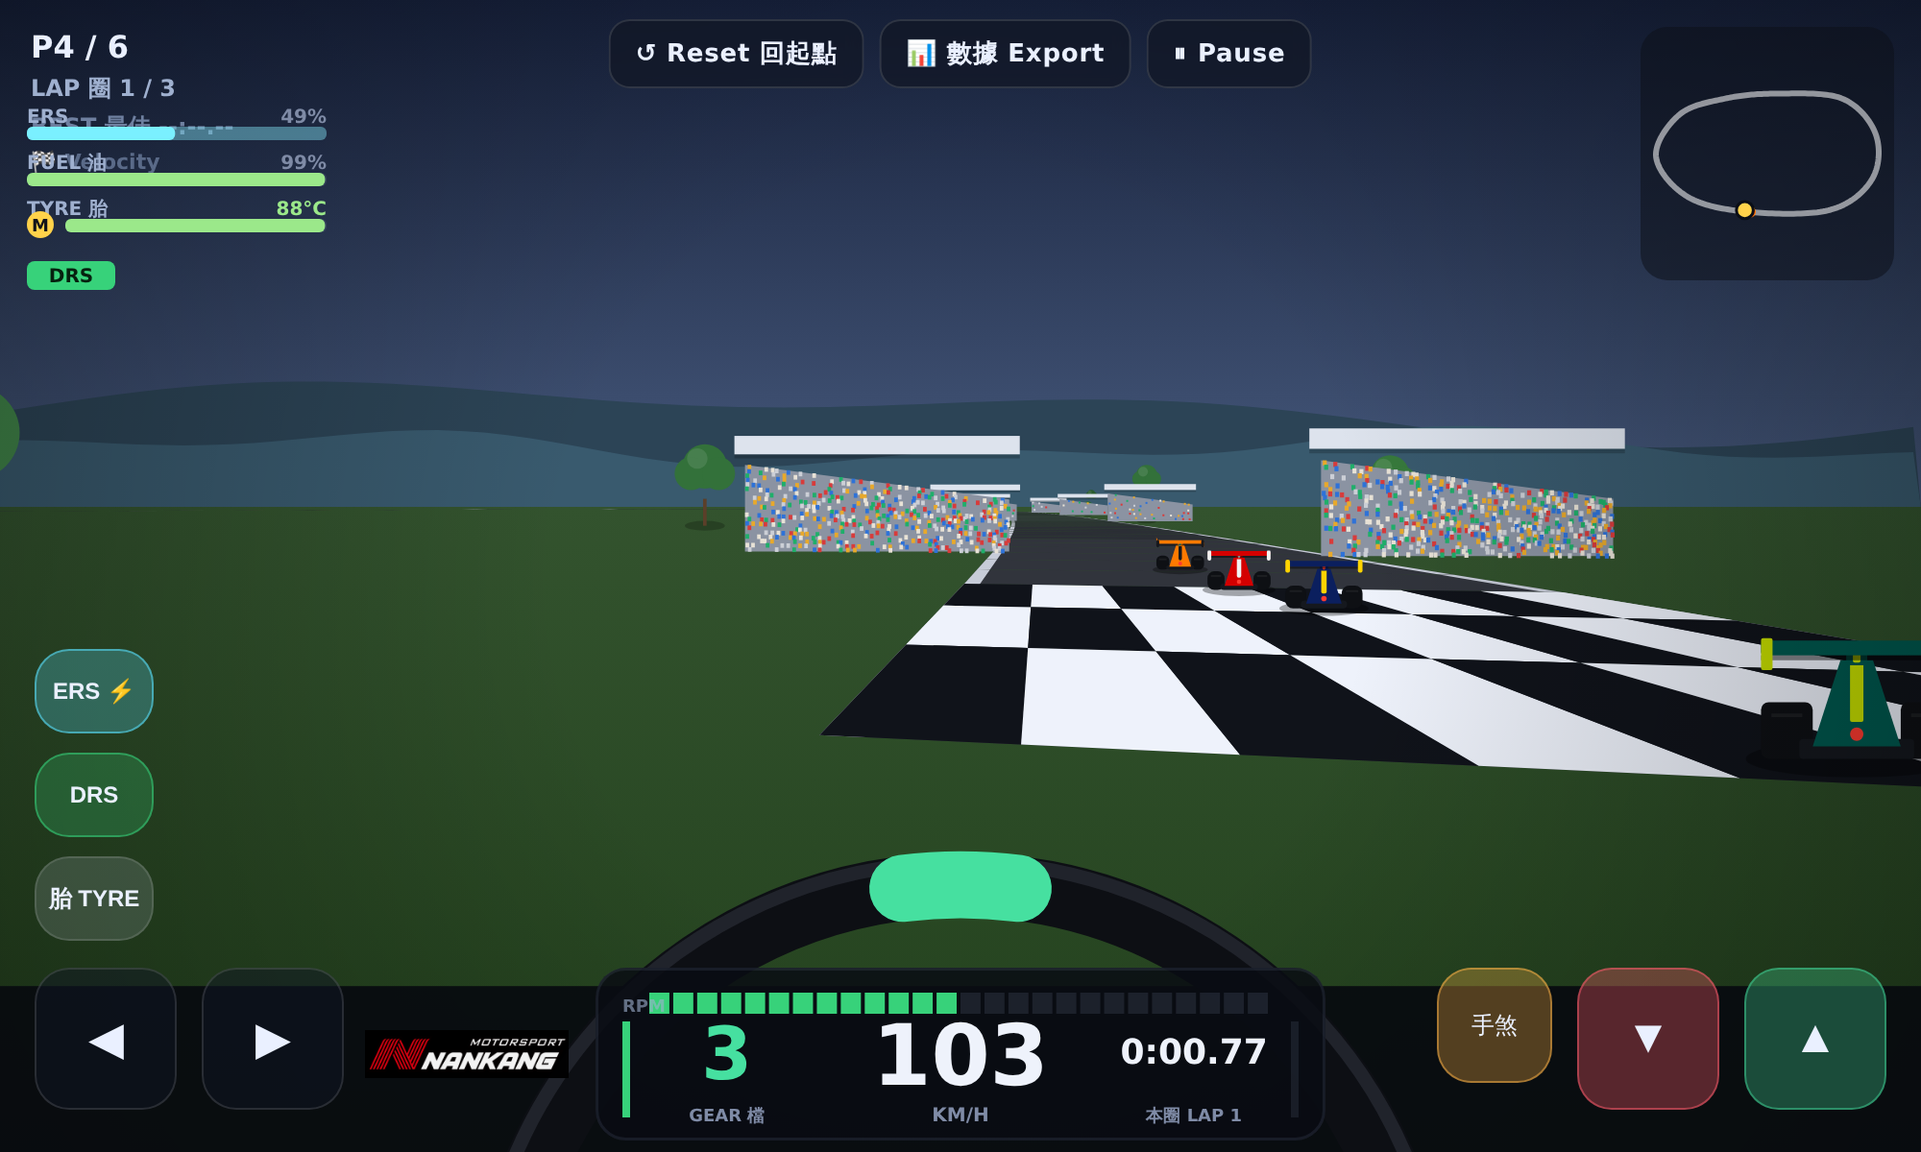
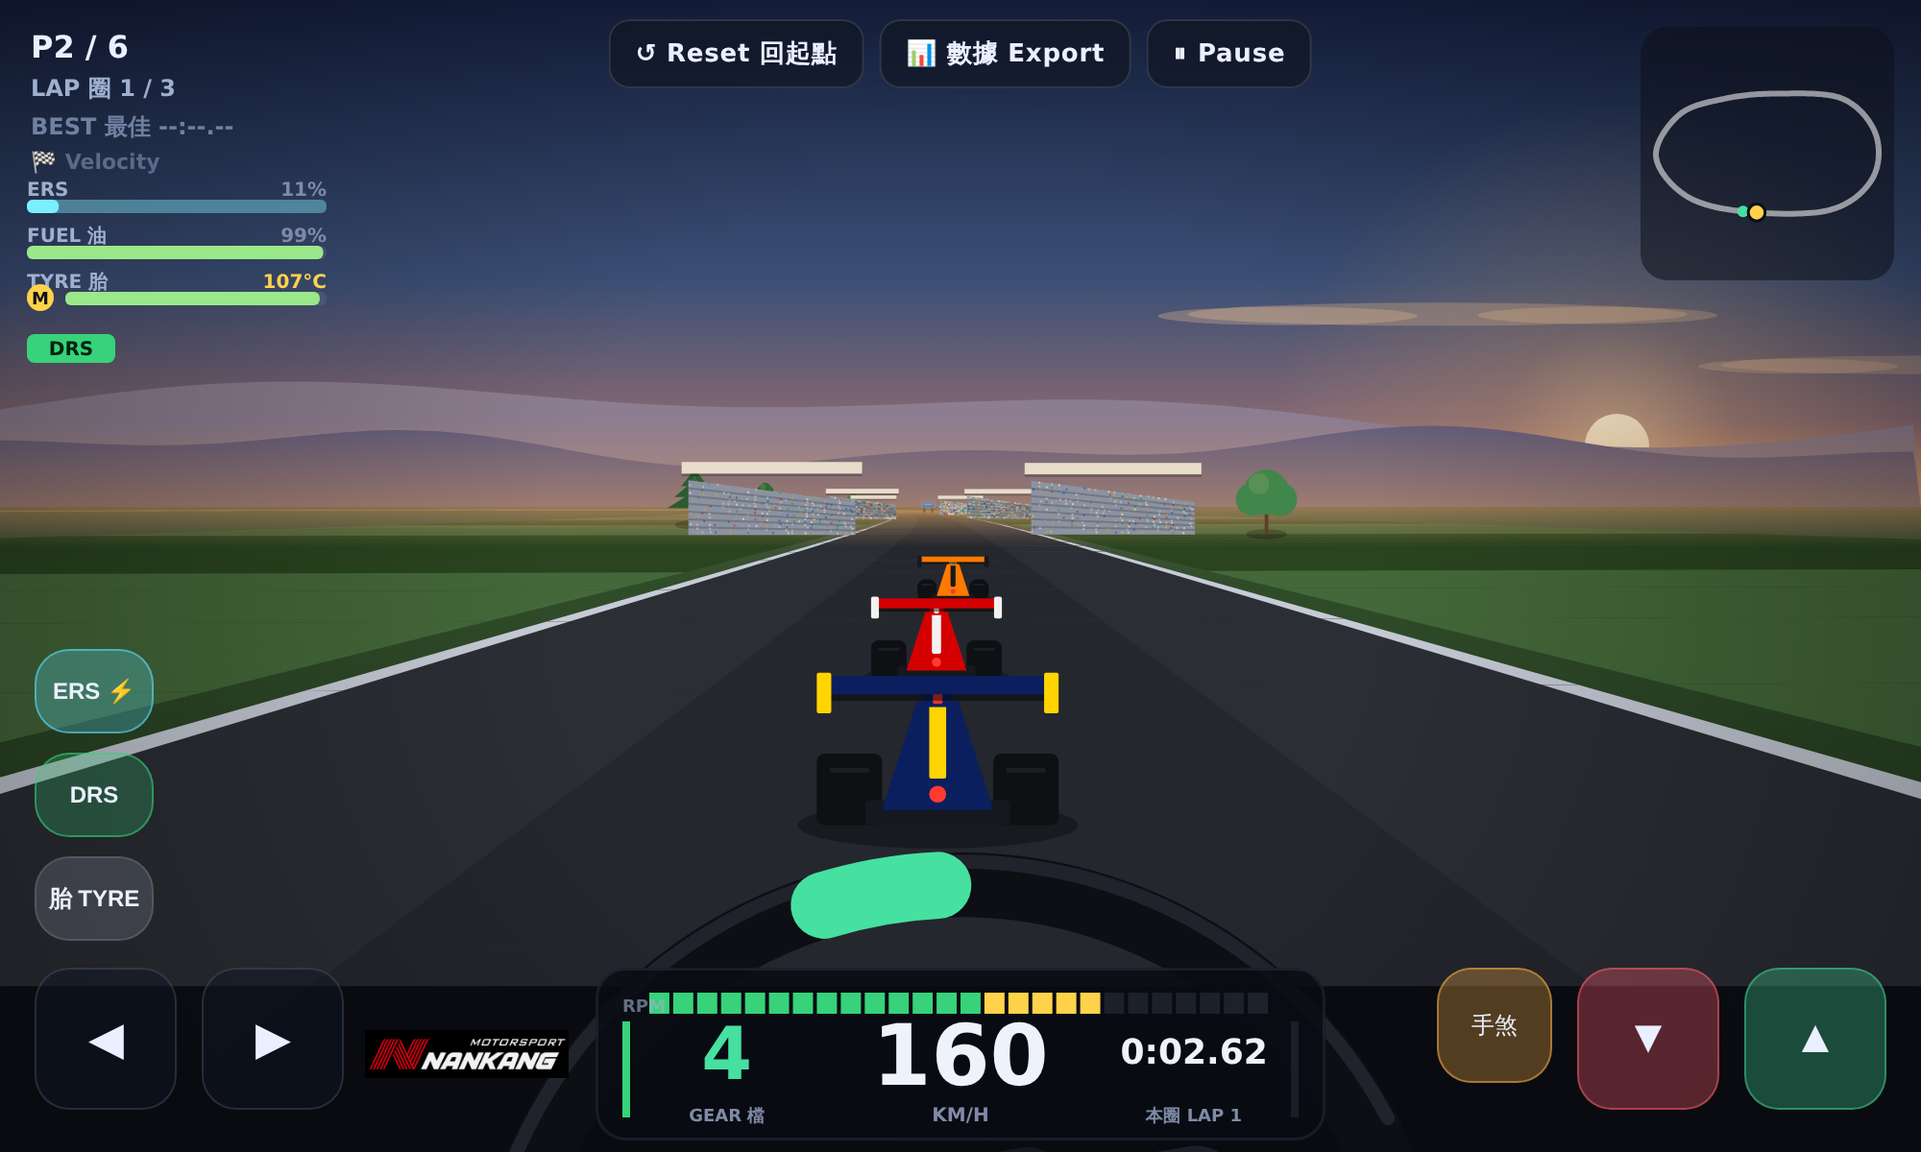
Apex GP: visual polish — golden-hour sky, distance fog, groomed verges
- unified dusk palette: layered sky gradient, low sun with parallax, cloud streaks, hazy mauve hills
- distance fog: road/kerb/grass quads blend toward the horizon glow; haze band at the horizon; scenery and rivals fade in instead of popping
- mowed-grass stripes flanking the road (clamped on corner insides to avoid fold-over)
- rubbered-in racing groove down the road centre
- 50m/100m braking boards before proper corners, thresholds relative to each track's curvature
- pine-tree variant + sunlit rim light; grandstand terrace row lines so the crowd reads as seated rows
- new gallery screenshot

diff --git a/f1_racing/index.html b/f1_racing/index.html
@@ -319,6 +319,7 @@ function buildScenery(pts, N) {
         const off = HALF_W + 5 + Math.random() * 45;
         const x = p.x + p.nx * side * off, y = p.y + p.ny * side * off;
         props.push({ t: 'tree', x, y, seg: i, solid: true, cc: [{ x, y, r: 1.15 }],
+          kind: Math.random() < 0.3 ? 'pine' : 'round',   // two silhouettes so the treeline isn't a row of identical lollipops
           h: 4.5 + Math.random() * 7, r: 1.6 + Math.random() * 1.9,
           col: TREE_COL[(Math.random() * TREE_COL.length) | 0] });
       }
@@ -331,6 +332,29 @@ function buildScenery(pts, N) {
         col: BOARD_COL[((i / 22) | 0) % BOARD_COL.length] });
     }
   }
+  // braking-distance boards (100m / 50m) on the run-in to every proper corner, placed on
+  // the OUTSIDE of the turn (where the braking zone is). "Proper corner" is judged RELATIVE
+  // to this track's own curvature distribution — a fixed threshold marks half of Hairpin
+  // Park and nothing at all on flowing Velocity.
+  const spacing = pts[2].s - pts[1].s || 6;                 // ~metres between centreline points
+  const med = pts.map(p => Math.abs(p.curv)).sort((a, b) => a - b)[N >> 1];
+  const thr = Math.max(0.04, med * 1.5);                    // corner = clearly tighter than the typical point
+  let lastEntry = -1e9;
+  for (let i = 0; i < N; i++) {
+    const c0 = Math.abs(pts[i].curv), cPrev = Math.abs(pts[(i - 4 + N) % N].curv);
+    let ahead = 0; for (let k = 0; k < 6; k++) ahead += Math.abs(pts[(i + k) % N].curv);
+    if (c0 > thr && cPrev < thr * 0.7 && ahead > thr * 4.5 && i - lastEntry > 30) {
+      lastEntry = i;
+      const side = pts[i].curv > 0 ? -1 : 1;                // outside of the corner
+      for (const d of [50, 100]) {
+        const ib = ((i - Math.round(d / spacing)) % N + N) % N, p = pts[ib];
+        if (Math.abs(p.curv) > thr * 0.9) continue;         // don't plant a board mid-corner
+        const x = p.x + p.nx * side * (HALF_W + 2.0), y = p.y + p.ny * side * (HALF_W + 2.0);
+        props.push({ t: 'marker', x, y, seg: ib, breakable: true, down: false, num: d,
+          cc: [{ x, y, r: 1.1 }] });
+      }
+    }
+  }
   // grandstands flanking the pit straight (start/finish, around index 0) — solid wall,
   // approximated by three collision circles laid along the track tangent.
   for (const side of [-1, 1]) {
@@ -341,6 +365,13 @@ function buildScenery(pts, N) {
       props.push({ t: 'stand', x, y, seg: idx, solid: true, cc,
         w, h: 7, seed: (idx * 2654435761 + (side > 0 ? 17 : 91)) >>> 0 });
     }
+  }
+  // start/finish gantry spanning the road just past the line
+  {
+    const p = pts[1], off = HALF_W + 1.2;
+    const lx = p.x + p.nx * off, ly = p.y + p.ny * off, rx = p.x - p.nx * off, ry = p.y - p.ny * off;
+    props.push({ t: 'gantry', x: p.x, y: p.y, seg: 1, lx, ly, rx, ry, solid: true,
+      cc: [{ x: lx, y: ly, r: 0.7 }, { x: rx, y: ry, r: 0.7 }] });
   }
   return props;
 }
@@ -679,13 +710,21 @@ function poly4(a, b, c, d, fill) { ctx.fillStyle = fill; ctx.beginPath(); ctx.mo
 function render() {
   ctx.setTransform(dpr, 0, 0, dpr, 0, 0);
   const hz = H * HORIZON;
+  // golden-hour sky: deep dusk blue overhead melting into a warm glow at the horizon.
+  // Every other outdoor colour (fog, hills, haze band) keys off this palette so the
+  // whole scene reads as ONE time of day instead of mismatched layers.
   let sky = ctx.createLinearGradient(0, 0, 0, hz);
-  sky.addColorStop(0, '#16203a'); sky.addColorStop(1, '#46597c'); ctx.fillStyle = sky; ctx.fillRect(0, 0, W, hz + 1);
+  sky.addColorStop(0, '#141e3c'); sky.addColorStop(0.55, '#3b4f76'); sky.addColorStop(0.85, '#8a6a72'); sky.addColorStop(1, '#d99a63');
+  ctx.fillStyle = sky; ctx.fillRect(0, 0, W, hz + 1);
+  drawSun(hz);
+  drawClouds(hz);
   drawHills(hz);
   let gr = ctx.createLinearGradient(0, hz, 0, H);
-  gr.addColorStop(0, '#33532e'); gr.addColorStop(1, '#22401c'); ctx.fillStyle = gr; ctx.fillRect(0, hz, W, H - hz);
+  gr.addColorStop(0, '#4d5a43'); gr.addColorStop(0.12, '#2f4c29'); gr.addColorStop(1, '#20361b');
+  ctx.fillStyle = gr; ctx.fillRect(0, hz, W, H - hz);
   setupProjection();
   drawRoad();
+  drawHaze(hz);
   drawScenery();
   drawMarksP();
   drawCars();
@@ -774,22 +813,43 @@ function drawRoad() {
   quads.sort((p, q) => q.fwd - p.fwd);            // far -> near (painter's order)
   for (const q of quads) {
     const { r0, r1, i, j } = q, HL = HALF_W;
+    const f = fogAt(q.fwd), band = Math.floor(i / 4) % 2, gband = Math.floor(i / 2) % 2;
+    // mowed-grass stripes flanking the road: alternating light/dark bands keyed to the same
+    // segment banding as the asphalt, so they recede with perspective. This is what turns the
+    // flat green plane into a groomed circuit verge. On the INSIDE of a corner the ribs' normals
+    // converge, so the stripe is clamped to ~0.8× the local turn radius to stop it folding over.
+    const g1 = HALF_W + KERB_W, curv = pts[i].curv;
+    for (const side of [-1, 1]) {
+      let ext = 70;
+      if (curv * side > 0.02) ext = Math.min(ext, 4.8 / Math.abs(curv));
+      const g2 = g1 + ext;
+      fillPolyW([{ x: r0.x + r0.nx*side*g1, y: r0.y + r0.ny*side*g1 }, { x: r0.x + r0.nx*side*g2, y: r0.y + r0.ny*side*g2 },
+                 { x: r1.x + r1.nx*side*g2, y: r1.y + r1.ny*side*g2 }, { x: r1.x + r1.nx*side*g1, y: r1.y + r1.ny*side*g1 }],
+                fogBlend(gband ? '#2a441f' : '#446839', f));
+    }
     // asphalt (subtle banding)
     fillPolyW([{ x: r0.x + r0.nx*HL, y: r0.y + r0.ny*HL }, { x: r0.x - r0.nx*HL, y: r0.y - r0.ny*HL },
                { x: r1.x - r1.nx*HL, y: r1.y - r1.ny*HL }, { x: r1.x + r1.nx*HL, y: r1.y + r1.ny*HL }],
-              (Math.floor(i/4)%2) ? '#2b2e35' : '#31343c');
+              fogBlend(band ? '#2b2e35' : '#31343c', f));
+    // rubbered-in racing groove: a soft dark band down the middle of the lap-worn surface
+    if (f < 0.7) {
+      const ro = HL * 0.38;
+      fillPolyW([{ x: r0.x + r0.nx*ro, y: r0.y + r0.ny*ro }, { x: r0.x - r0.nx*ro, y: r0.y - r0.ny*ro },
+                 { x: r1.x - r1.nx*ro, y: r1.y - r1.ny*ro }, { x: r1.x + r1.nx*ro, y: r1.y + r1.ny*ro }],
+                'rgba(14,15,18,' + (0.20 * (1 - f)).toFixed(3) + ')');
+    }
     // white edge lines
-    const eo = HALF_W - 0.55;
+    const eo = HALF_W - 0.55, edge = 'rgba(238,242,255,' + (0.8 * (1 - f * 0.85)).toFixed(3) + ')';
     fillPolyW([{ x: r0.x + r0.nx*HL, y: r0.y + r0.ny*HL }, { x: r0.x + r0.nx*eo, y: r0.y + r0.ny*eo },
-               { x: r1.x + r1.nx*eo, y: r1.y + r1.ny*eo }, { x: r1.x + r1.nx*HL, y: r1.y + r1.ny*HL }], 'rgba(238,242,255,.8)');
+               { x: r1.x + r1.nx*eo, y: r1.y + r1.ny*eo }, { x: r1.x + r1.nx*HL, y: r1.y + r1.ny*HL }], edge);
     fillPolyW([{ x: r0.x - r0.nx*eo, y: r0.y - r0.ny*eo }, { x: r0.x - r0.nx*HL, y: r0.y - r0.ny*HL },
-               { x: r1.x - r1.nx*HL, y: r1.y - r1.ny*HL }, { x: r1.x - r1.nx*eo, y: r1.y - r1.ny*eo }], 'rgba(238,242,255,.8)');
+               { x: r1.x - r1.nx*HL, y: r1.y - r1.ny*HL }, { x: r1.x - r1.nx*eo, y: r1.y - r1.ny*eo }], edge);
     // kerbs on the inside of corners
     if (Math.abs(pts[i].curv) > 0.02) {
       const side = pts[i].curv > 0 ? 1 : -1, o1 = HALF_W, o2 = HALF_W + KERB_W;
       fillPolyW([{ x: r0.x + r0.nx*side*o1, y: r0.y + r0.ny*side*o1 }, { x: r0.x + r0.nx*side*o2, y: r0.y + r0.ny*side*o2 },
                  { x: r1.x + r1.nx*side*o2, y: r1.y + r1.ny*side*o2 }, { x: r1.x + r1.nx*side*o1, y: r1.y + r1.ny*side*o1 }],
-                ((i + j) % 2) ? '#e23b3b' : '#eef2fb');
+                fogBlend(((i + j) % 2) ? '#e23b3b' : '#eef2fb', f));
     }
     // start/finish checker
     if (i < 2) {
@@ -810,12 +870,72 @@ function drawSmokeP() {
   for (const sm of smoke) { const p = project(sm.x, sm.y); if (!p) continue; ctx.globalAlpha = sm.life * 0.4; ctx.fillStyle = '#dde2ec'; const r = Math.min(70, p.sc * sm.sz); ctx.beginPath(); ctx.arc(p.x, p.y, r, 0, 7); ctx.fill(); }
   ctx.globalAlpha = 1;
 }
+// ----- atmosphere: everything fades toward the horizon-glow colour with distance -----
+// FOG_RGB matches the sky gradient's horizon stop, so fogged geometry melts INTO the sky
+// instead of ending at a hard silhouette line (the old paper-cutout horizon).
+const FOG_RGB = [217, 154, 99];
+const _fogCache = new Map();                       // '#rrggbb'+step -> blended 'rgb()' (few dozen entries)
+function fogAt(fwd) { return Math.max(0, Math.min(1, (fwd - 70) / 260)); }
+function fogBlend(hex, f) {
+  const q = Math.round(f * 10); if (q <= 0) return hex;
+  const key = hex + q; let c = _fogCache.get(key);
+  if (!c) {
+    const r = parseInt(hex.slice(1, 3), 16), g = parseInt(hex.slice(3, 5), 16), b = parseInt(hex.slice(5, 7), 16), t = (q / 10) * 0.85;
+    c = 'rgb(' + Math.round(r + (FOG_RGB[0] - r) * t) + ',' + Math.round(g + (FOG_RGB[1] - g) * t) + ',' + Math.round(b + (FOG_RGB[2] - b) * t) + ')';
+    _fogCache.set(key, c);
+  }
+  return c;
+}
+// screen-space haze band straddling the horizon line. Drawn AFTER the road but BEFORE
+// scenery/cars (near trees tower across the horizon and must not get a tint stripe).
+// Below the horizon the ground compresses fast (fwd ~ 1/(y-hz)), so the band is thin there.
+function drawHaze(hz) {
+  const up = H * 0.075, down = H * 0.035;
+  let g = ctx.createLinearGradient(0, hz - up, 0, hz + down);
+  g.addColorStop(0, 'rgba(217,154,99,0)'); g.addColorStop(0.68, 'rgba(217,154,99,.5)'); g.addColorStop(1, 'rgba(217,154,99,0)');
+  ctx.fillStyle = g; ctx.fillRect(0, hz - up, W, up + down);
+}
+// low evening sun: a broad glow + bright core sitting just above the horizon. It holds a
+// fixed compass bearing, so it slides with camYaw like the hills — the world has a "west".
+const SUN_AZ = 0.9;
+function drawSun(hz) {
+  let dA = SUN_AZ - camYaw; while (dA > Math.PI) dA -= 2 * Math.PI; while (dA < -Math.PI) dA += 2 * Math.PI;
+  const x = W / 2 + dA * W * 0.42, y = hz * 0.88, R = H * 0.30;
+  if (x < -R || x > W + R) return;
+  let g = ctx.createRadialGradient(x, y, 0, x, y, R);
+  g.addColorStop(0, 'rgba(255,214,150,.55)'); g.addColorStop(0.35, 'rgba(255,190,120,.22)'); g.addColorStop(1, 'rgba(255,190,120,0)');
+  ctx.fillStyle = g; ctx.fillRect(x - R, y - R, R * 2, R * 2);
+  ctx.fillStyle = 'rgba(255,238,205,.9)'; ctx.beginPath(); ctx.arc(x, y, H * 0.028, 0, 7); ctx.fill();
+}
+// a few flat cloud streaks: dark stratus up high, warm underlit wisps near the glow.
+// Fixed bearings + per-layer parallax speeds — they drift as the car turns, adding sky depth.
+const CLOUDS = [
+  { az: -1.6, ty: 0.22, w: 0.26, h: 0.014, col: '30,44,78',    a: 0.28, sp: 0.30 },
+  { az:  0.2, ty: 0.16, w: 0.20, h: 0.011, col: '30,44,78',    a: 0.24, sp: 0.28 },
+  { az:  2.4, ty: 0.30, w: 0.30, h: 0.015, col: '44,56,92',    a: 0.26, sp: 0.34 },
+  { az:  0.7, ty: 0.62, w: 0.26, h: 0.010, col: '243,196,146', a: 0.30, sp: 0.42 },
+  { az:  1.3, ty: 0.72, w: 0.20, h: 0.008, col: '243,196,146', a: 0.26, sp: 0.46 },
+  { az: -2.6, ty: 0.68, w: 0.28, h: 0.009, col: '238,182,132', a: 0.28, sp: 0.44 },
+];
+function drawClouds(hz) {
+  for (const c of CLOUDS) {
+    let dA = c.az - camYaw * c.sp * 3; while (dA > Math.PI) dA -= 2 * Math.PI; while (dA < -Math.PI) dA += 2 * Math.PI;
+    const x = W / 2 + dA * W * 0.42, y = hz * c.ty, w = c.w * W, h = Math.max(3, c.h * H);
+    if (x < -w || x > W + w) continue;
+    ctx.fillStyle = 'rgba(' + c.col + ',' + c.a + ')';
+    // three overlapping lobes, tucked in tight so they merge into one soft streak
+    ctx.beginPath(); ctx.ellipse(x, y, w * 0.5, h, 0, 0, 7); ctx.fill();
+    ctx.beginPath(); ctx.ellipse(x - w * 0.30, y + h * 0.15, w * 0.26, h * 0.8, 0, 0, 7); ctx.fill();
+    ctx.beginPath(); ctx.ellipse(x + w * 0.32, y + h * 0.10, w * 0.24, h * 0.75, 0, 0, 7); ctx.fill();
+  }
+}
 // layered distant mountains on the horizon. They slide as the car's heading changes
 // (parallax keyed to camYaw), giving the world a sense of rotation beyond the track.
+// Hazy mauve-blues (not saturated teal) so they sit believably behind the warm haze band.
 function drawHills(hz) {
   const layers = [
-    { col: '#2c4456', h: hz * 0.26, f: 0.0055, sp: 70,  ph: 0.0 },
-    { col: '#395a6e', h: hz * 0.16, f: 0.0105, sp: 130, ph: 2.1 },
+    { col: '#8d7d90', h: hz * 0.26, f: 0.0055, sp: 70,  ph: 0.0 },
+    { col: '#635d7e', h: hz * 0.16, f: 0.0105, sp: 130, ph: 2.1 },
   ];
   for (const L of layers) {
     const shift = camYaw * L.sp;
@@ -835,9 +955,56 @@ function drawScenery() {
   for (const o of track.scenery) { if (o.down) continue; const p = project(o.x, o.y); if (p && p.fwd < 360) list.push({ o, p }); }
   list.sort((a, b) => b.p.fwd - a.p.fwd);
   for (const { o, p } of list) {
+    // fade props in over the last stretch of draw distance, so they emerge from the haze
+    // instead of popping into existence at the cull line
+    ctx.globalAlpha = Math.max(0, Math.min(1, (360 - p.fwd) / 110));
     if (o.t === 'tree') drawTree(o, p);
     else if (o.t === 'board') drawBoard(o, p);
+    else if (o.t === 'marker') drawMarker(o, p);
+    else if (o.t === 'gantry') drawGantry(o, p);
     else drawStand(o, p);
+  }
+  ctx.globalAlpha = 1;
+}
+// braking-distance board: white plate, red cap band, big black metres count — the classic
+// trackside cue for where to brake. Doubles as a gameplay aid on corner approach.
+function drawMarker(o, p) {
+  const sc = p.sc, x = p.x, gy = p.y, w = 1.9 * sc, h = 1.5 * sc, legH = 1.1 * sc;
+  if (h < 4 || x < -w || x > W + w) return;
+  const py = gy - legH - h;
+  ctx.fillStyle = 'rgba(0,0,0,.22)'; ctx.beginPath(); ctx.ellipse(x, gy, w * 0.5, Math.max(1, w * 0.1), 0, 0, 7); ctx.fill();
+  ctx.fillStyle = '#3a3f48'; ctx.fillRect(x - Math.max(1, 0.1 * sc) / 2, gy - legH, Math.max(1, 0.1 * sc), legH);
+  ctx.fillStyle = '#eef2fb'; rrectP(x - w / 2, py, w, h, Math.min(3, w * 0.08)); ctx.fill();
+  ctx.fillStyle = '#d43b3b'; ctx.fillRect(x - w / 2, py, w, h * 0.24);
+  if (h > 11) {
+    ctx.fillStyle = '#14171d'; ctx.textAlign = 'center'; ctx.textBaseline = 'middle';
+    ctx.font = '900 ' + Math.max(6, h * 0.52) + 'px system-ui, sans-serif';
+    ctx.fillText(o.num, x, py + h * 0.62);
+    ctx.textAlign = 'left'; ctx.textBaseline = 'alphabetic';
+  }
+}
+// start/finish gantry: two pillars and a dark beam spanning the road, APEX GP branding.
+// Pillar bases are ground-projected; heights rise in metres scaled by each base's own
+// pixels-per-metre, so perspective stays correct as you drive at (and under) it.
+function drawGantry(o, p) {
+  const L = project(o.lx, o.ly), R = project(o.rx, o.ry);
+  if (!L || !R) return;                                     // passing under / behind — gone this frame
+  const GH = 7.5, BT = 1.4;                                 // clearance + beam thickness (metres)
+  const pw = Math.max(2, 0.45 * (L.sc + R.sc) / 2);
+  ctx.fillStyle = '#2c313a';
+  ctx.fillRect(L.x - pw / 2, L.y - GH * L.sc, pw, GH * L.sc);
+  ctx.fillRect(R.x - pw / 2, R.y - GH * R.sc, pw, GH * R.sc);
+  const yl = L.y - GH * L.sc, yr = R.y - GH * R.sc;         // beam underside at each pillar
+  ctx.fillStyle = '#191d24'; ctx.beginPath();
+  ctx.moveTo(L.x, yl - BT * L.sc); ctx.lineTo(R.x, yr - BT * R.sc);
+  ctx.lineTo(R.x, yr); ctx.lineTo(L.x, yl); ctx.closePath(); ctx.fill();
+  const bw = Math.abs(R.x - L.x);
+  if (bw > 70) {
+    const fs = Math.max(7, BT * (L.sc + R.sc) / 2 * 0.5);
+    ctx.fillStyle = '#eef2ff'; ctx.font = '800 ' + fs + 'px system-ui, sans-serif';
+    ctx.textAlign = 'center'; ctx.textBaseline = 'middle';
+    ctx.fillText('APEX GP', (L.x + R.x) / 2, (yl + yr) / 2 - BT * (L.sc + R.sc) / 4);
+    ctx.textBaseline = 'alphabetic'; ctx.textAlign = 'left';
   }
 }
 function drawTree(o, p) {
@@ -847,10 +1014,20 @@ function drawTree(o, p) {
   ctx.fillStyle = 'rgba(0,0,0,.22)'; ctx.beginPath(); ctx.ellipse(x, gy, cr * 0.9, Math.max(1, cr * 0.22), 0, 0, 7); ctx.fill();
   ctx.fillStyle = '#5b3f29'; ctx.fillRect(x - trunkW / 2, gy - trunkH, trunkW, trunkH);
   ctx.fillStyle = o.col;
+  if (o.kind === 'pine') {
+    // conifer: three stacked fronds tapering to a tip
+    for (let k = 0; k < 3; k++) {
+      const fw = cr * (1.25 - k * 0.32), fy = gy - trunkH - (h - trunkH) * (k / 3), fh = (h - trunkH) * 0.52;
+      ctx.beginPath(); ctx.moveTo(x, fy - fh); ctx.lineTo(x - fw, fy); ctx.lineTo(x + fw, fy); ctx.closePath(); ctx.fill();
+    }
+    ctx.fillStyle = 'rgba(255,220,170,.10)';                 // low-sun rim light on the tip
+    ctx.beginPath(); ctx.moveTo(x, gy - h); ctx.lineTo(x - cr * 0.3, gy - h * 0.72); ctx.lineTo(x + cr * 0.3, gy - h * 0.72); ctx.closePath(); ctx.fill();
+    return;
+  }
   ctx.beginPath(); ctx.arc(x, cy, cr, 0, 7); ctx.fill();
   ctx.beginPath(); ctx.arc(x - cr * 0.62, cy + cr * 0.32, cr * 0.74, 0, 7); ctx.fill();
   ctx.beginPath(); ctx.arc(x + cr * 0.62, cy + cr * 0.32, cr * 0.74, 0, 7); ctx.fill();
-  ctx.fillStyle = 'rgba(255,255,255,.10)'; ctx.beginPath(); ctx.arc(x - cr * 0.34, cy - cr * 0.36, cr * 0.46, 0, 7); ctx.fill();
+  ctx.fillStyle = 'rgba(255,220,170,.12)'; ctx.beginPath(); ctx.arc(x - cr * 0.34, cy - cr * 0.36, cr * 0.46, 0, 7); ctx.fill();
 }
 function drawBoard(o, p) {
   const sc = p.sc, x = p.x, gy = p.y, w = 6 * sc, h = 3 * sc, legH = 2.2 * sc;
@@ -887,8 +1064,20 @@ function drawStand(o, p) {
     ctx.fillStyle = rnd() < 0.78 ? NEUT[(rnd() * NEUT.length) | 0] : POP[(rnd() * POP.length) | 0];
     ctx.fillRect(px, pyd, dw, dh);
   }
-  // roof canopy + shaded lip
-  ctx.fillStyle = '#dde3ed'; ctx.fillRect(x0 - w * 0.04, top, w * 1.08, Math.max(2, h * 0.16));
+  // terrace step-lines over the crowd — the horizontal structure that makes the speckle
+  // read as seated ROWS instead of static noise
+  if (h > 14) {
+    ctx.strokeStyle = 'rgba(10,12,18,.20)'; ctx.lineWidth = Math.max(1, sc * 0.045);
+    for (let r = 2; r < rows; r += 2) {
+      const t = r / rows;
+      ctx.beginPath();
+      ctx.moveTo(x0, (top + h * 0.25) + (gy - (top + h * 0.25)) * t);
+      ctx.lineTo(x0 + w, (top + h * 0.55) + (gy - (top + h * 0.55)) * t);
+      ctx.stroke();
+    }
+  }
+  // roof canopy (warm-lit by the low sun) + shaded lip
+  ctx.fillStyle = '#e7ddca'; ctx.fillRect(x0 - w * 0.04, top, w * 1.08, Math.max(2, h * 0.16));
   ctx.fillStyle = 'rgba(0,0,0,.20)'; ctx.fillRect(x0 - w * 0.04, top + h * 0.16, w * 1.08, Math.max(1, h * 0.035));
 }
 // rival cars as ground-anchored billboards: project each to its tyre-contact point and scale by
@@ -897,7 +1086,11 @@ function drawCars() {
   const list = [];
   for (const c of aiCars) { const p = project(c.x, c.y); if (p && p.fwd < 280) list.push({ c, p }); }
   list.sort((a, b) => b.p.fwd - a.p.fwd);
-  for (const { c, p } of list) drawCarSprite(c, p);
+  for (const { c, p } of list) {
+    ctx.globalAlpha = Math.max(0, Math.min(1, (280 - p.fwd) / 70));   // emerge from the haze, no pop-in
+    drawCarSprite(c, p);
+  }
+  ctx.globalAlpha = 1;
 }
 // rear-3/4 view of an open-wheeler: fat rear tyres, tapered engine cover, central fin and a wide
 // rear wing with endplates, painted in the car's livery so each rival reads as its real-life team.
@@ -962,9 +1155,15 @@ function drawWheel() {
   ctx.fillStyle = '#15191f';
   rrectP(-R * 0.42, -R * 0.10, R * 0.84, R * 0.20, R * 0.06); ctx.fill();            // horizontal spoke
   rrectP(-R * 0.30, -R * 0.40, R * 0.60, R * 0.62, R * 0.10); ctx.fill();            // hub plate
-  // shift LEDs across the top of the hub
+  // shift LEDs across the top of the hub — light up with RPM (green -> amber -> red),
+  // all flashing red past the redline, like a real F1 wheel
+  const { rpm: wrpm } = revInfo();
+  const redFlash = wrpm > 0.93 && Math.floor(perf / 70) % 2 === 0;
+  const lit = Math.round(wrpm * 9);
   for (let i = 0; i < 9; i++) {
-    ctx.fillStyle = i < 4 ? '#46e0a0' : i < 7 ? '#ffd24a' : '#ff4d4d';
+    const col = i < 4 ? '#46e0a0' : i < 7 ? '#ffd24a' : '#ff4d4d';
+    const on = redFlash || i < lit;
+    ctx.fillStyle = on ? (redFlash ? '#ff4d4d' : col) : 'rgba(120,130,150,.22)';
     ctx.beginPath(); ctx.arc(-R * 0.24 + i * R * 0.06, -R * 0.30, R * 0.022, 0, 7); ctx.fill();
   }
   // top-centre marker drawn ON the rim (12 o'clock band, like a real F1 wheel) so the steering angle reads clearly
